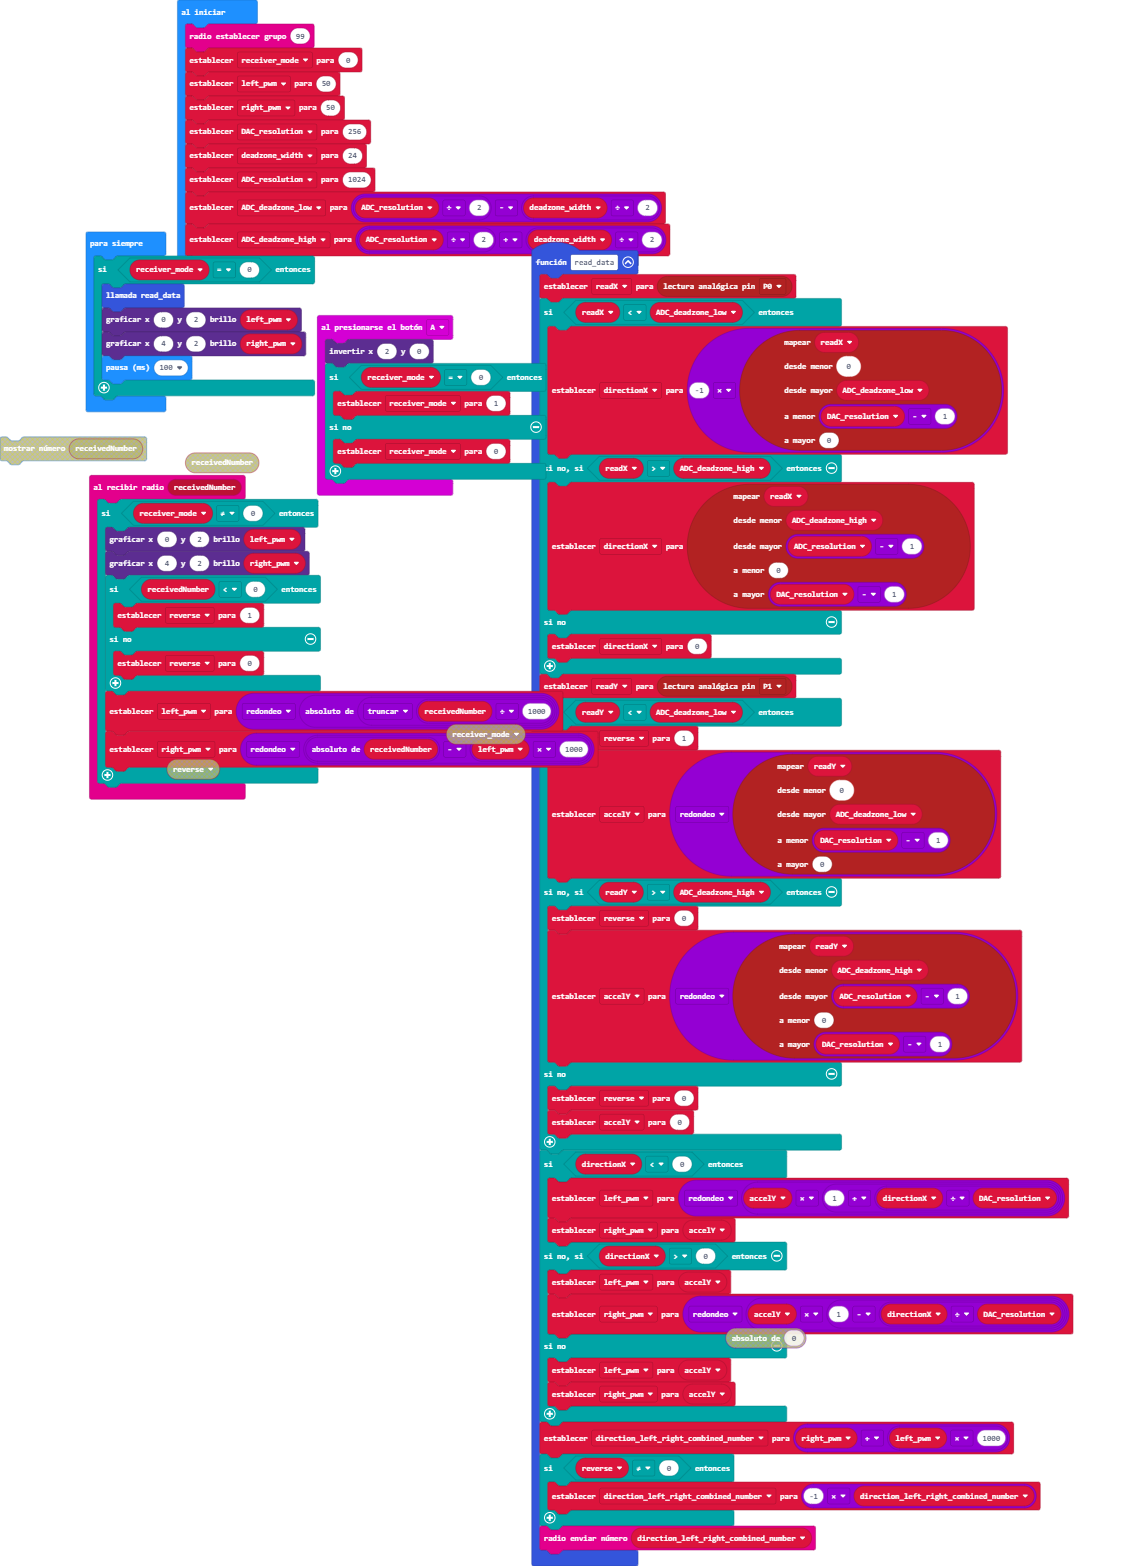
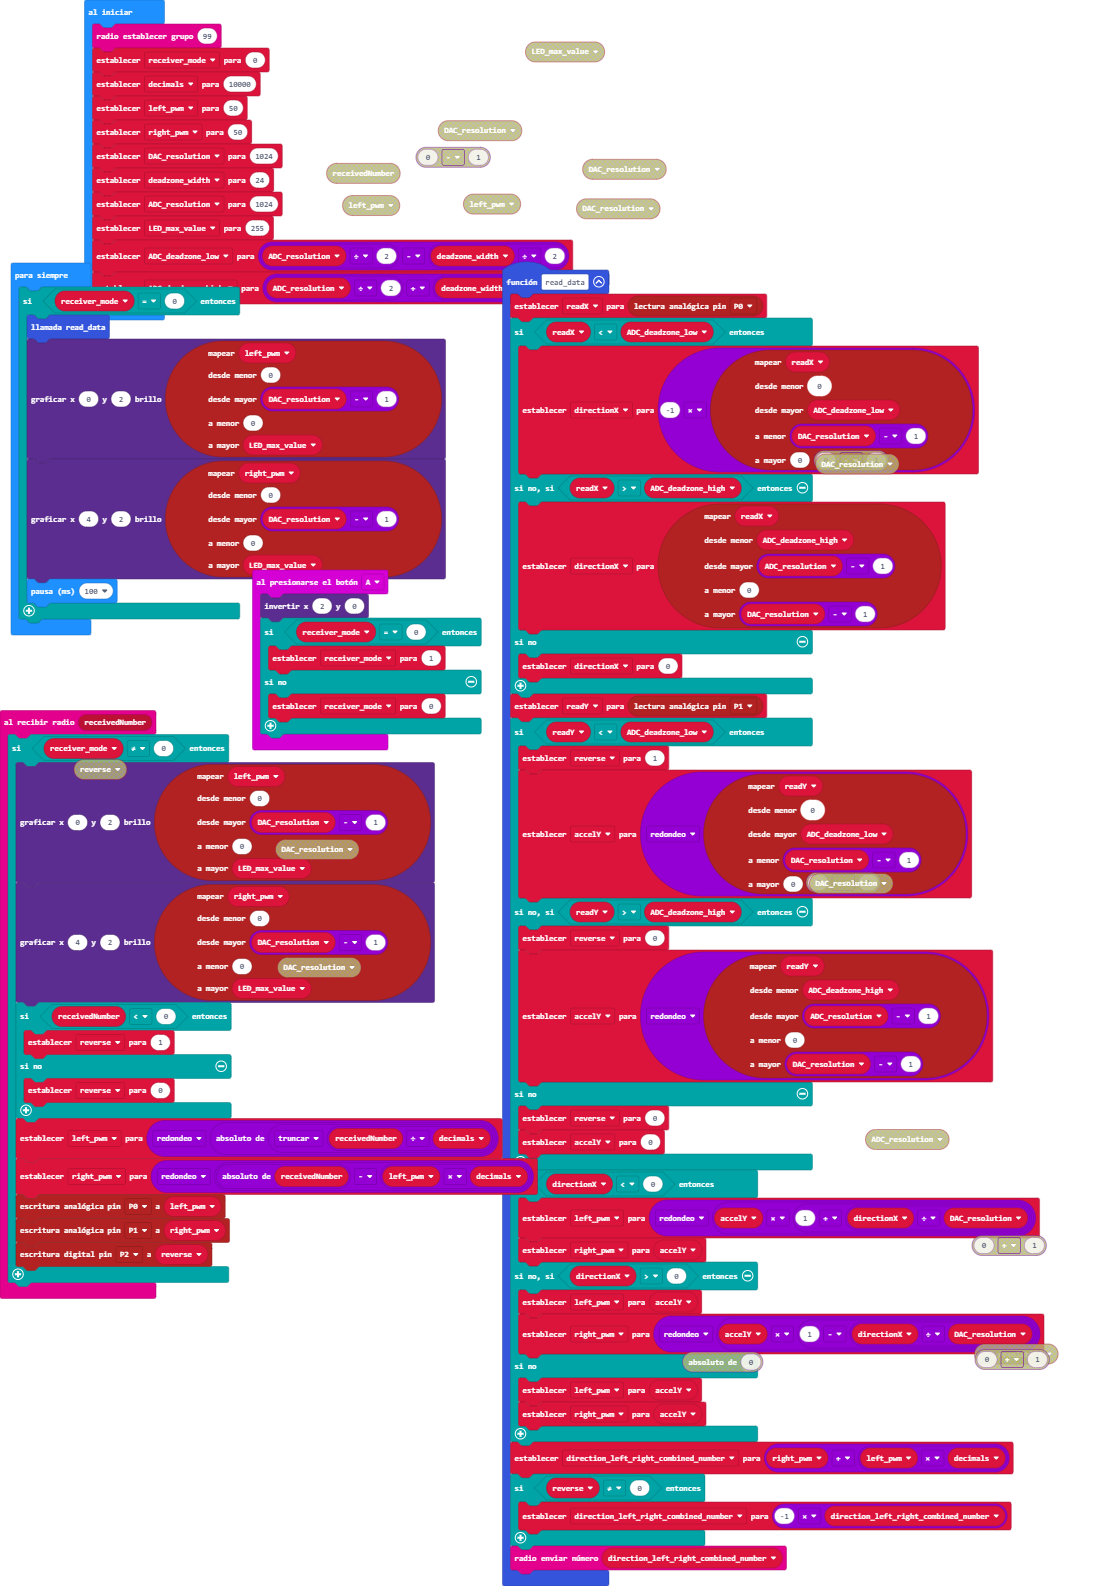
Actualizar main.blocks, main.ts

diff --git a/main.ts b/main.ts
@@ -1,14 +1,29 @@
 radio.onReceivedNumber(function (receivedNumber) {
     if (receiver_mode != 0) {
-        led.plotBrightness(0, 2, left_pwm)
-        led.plotBrightness(4, 2, right_pwm)
+        led.plotBrightness(0, 2, pins.map(
+        left_pwm,
+        0,
+        DAC_resolution - 1,
+        0,
+        LED_max_value
+        ))
+        led.plotBrightness(4, 2, pins.map(
+        right_pwm,
+        0,
+        DAC_resolution - 1,
+        0,
+        LED_max_value
+        ))
         if (receivedNumber < 0) {
             reverse = 1
         } else {
             reverse = 0
         }
-        left_pwm = Math.round(Math.abs(Math.trunc(receivedNumber / 1000)))
-        right_pwm = Math.round(Math.abs(receivedNumber) - left_pwm * 1000)
+        left_pwm = Math.round(Math.abs(Math.trunc(receivedNumber / decimals)))
+        right_pwm = Math.round(Math.abs(receivedNumber) - left_pwm * decimals)
+        pins.analogWritePin(AnalogPin.P0, left_pwm)
+        pins.analogWritePin(AnalogPin.P1, right_pwm)
+        pins.digitalWritePin(DigitalPin.P2, reverse)
     }
 })
 input.onButtonPressed(Button.A, function () {
@@ -73,7 +88,7 @@ function read_data () {
         left_pwm = accelY
         right_pwm = accelY
     }
-    direction_left_right_combined_number = right_pwm + left_pwm * 1000
+    direction_left_right_combined_number = right_pwm + left_pwm * decimals
     if (reverse != 0) {
         direction_left_right_combined_number = -1 * direction_left_right_combined_number
     }
@@ -87,25 +102,41 @@ let readX = 0
 let reverse = 0
 let ADC_deadzone_high = 0
 let ADC_deadzone_low = 0
+let LED_max_value = 0
 let ADC_resolution = 0
 let DAC_resolution = 0
 let right_pwm = 0
 let left_pwm = 0
+let decimals = 0
 let receiver_mode = 0
 radio.setGroup(99)
 receiver_mode = 0
+decimals = 10000
 left_pwm = 50
 right_pwm = 50
-DAC_resolution = 256
+DAC_resolution = 1024
 let deadzone_width = 24
 ADC_resolution = 1024
+LED_max_value = 255
 ADC_deadzone_low = ADC_resolution / 2 - deadzone_width / 2
 ADC_deadzone_high = ADC_resolution / 2 + deadzone_width / 2
 basic.forever(function () {
     if (receiver_mode == 0) {
         read_data()
-        led.plotBrightness(0, 2, left_pwm)
-        led.plotBrightness(4, 2, right_pwm)
+        led.plotBrightness(0, 2, pins.map(
+        left_pwm,
+        0,
+        DAC_resolution - 1,
+        0,
+        LED_max_value
+        ))
+        led.plotBrightness(4, 2, pins.map(
+        right_pwm,
+        0,
+        DAC_resolution - 1,
+        0,
+        LED_max_value
+        ))
         basic.pause(100)
     }
 })
